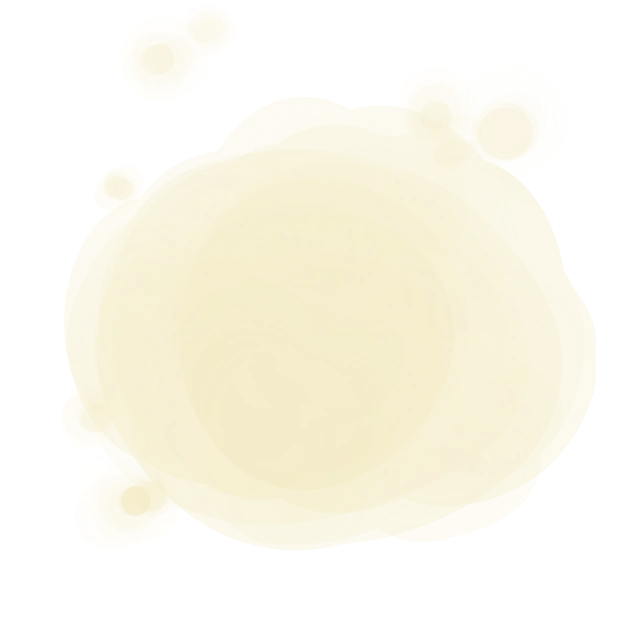
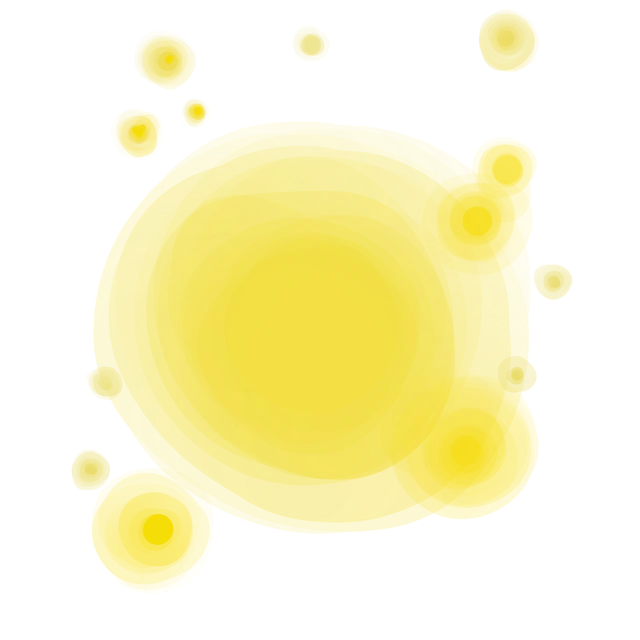
Match companion moods and goal cards to the Figma; drop star eyes and z's
Claude-Session: https://claude.ai/code/session_0163CGCJqiZdqzmXbJkFQdeU

diff --git a/src/components/companion/companion.js b/src/components/companion/companion.js
@@ -9,11 +9,11 @@ const base = import.meta.env.BASE_URL;
  * Each mood = glow (body) + face, and optional left/right arms so they can move on their own.
  */
 const ART = {
-  energized: ['glow', 'armL', 'armR', 'face'],
+  energized: ['glow', 'face'], // the original drawing, arms included
   happy: ['glow', 'armL', 'armR', 'face'],
   calm: ['glow', 'armL', 'armR', 'face'],
   tired: ['glow', 'face'],
-  sad: ['glow', 'armR', 'face'],
+  sad: ['glow', 'face'],
   curious: ['glow', 'face'],
   scholar: ['glow', 'face'],
 };
@@ -21,11 +21,10 @@ const ALIAS = { breathing: 'calm' };
 
 /**
  * createCompanion({ size, mood, label }) → { node, setMood(mood), destroy() }
- * Moods: energized (good day), tired (hard day), happy, calm, sad, curious, scholar.
+ * Moods (matched to the Figma): energized (companion screen, good day), happy (good-day Home, chat),
+ * tired (hard day), calm, sad, curious, scholar.
  */
 export function createCompanion({ size = 120, mood = 'calm', label = 'Clarity, your companion' } = {}) {
-  const zzz = el('span', { class: 'companion__zzz', 'aria-hidden': 'true' },
-    el('span', {}, 'z'), el('span', {}, 'z'), el('span', {}, 'z'));
   const node = el('div', { class: 'companion', role: 'img', 'aria-label': label, style: `--size:${size}px` });
   let mm = null;
 
@@ -34,11 +33,11 @@ export function createCompanion({ size = 120, mood = 'calm', label = 'Clarity, y
     const parts = ART[art] ?? ART.calm;
     const imgs = Object.fromEntries(parts.map((p) => [p,
       el('img', { class: `companion__${p}`, src: `${base}companion/moods/${art}-${p}.webp`, alt: '', decoding: 'async' })]));
-    node.replaceChildren(...Object.values(imgs), zzz);
+    node.replaceChildren(...Object.values(imgs));
     node.dataset.mood = art;
     mm?.revert();
     mm = gsap.matchMedia();
-    mm.add({ motion: '(prefers-reduced-motion: no-preference)' }, () => MOODS[art]?.({ node, zzz, ...imgs }));
+    mm.add({ motion: '(prefers-reduced-motion: no-preference)' }, () => MOODS[art]?.({ node, ...imgs }));
   }
 
   setMood(mood);
@@ -50,22 +49,16 @@ const breathe = (glow, face, scale, y, dur) => gsap.timeline({ repeat: -1, yoyo:
   .to(glow, { scale, duration: dur }, 0).to(face, { y, duration: dur }, 0);
 
 const MOODS = {
-  energized({ node, glow, face, armL, armR }) {
+  energized({ node, glow, face }) {
     const hop = gsap.timeline({ repeat: -1, repeatDelay: 3.5 })
       .to(node, { y: -8, duration: 0.25, ease: 'power2.out' })
       .to(node, { y: 0, duration: 0.5, ease: 'bounce.out' });
-    const wave = gsap.timeline({ repeat: -1, yoyo: true, defaults: { ease: 'sine.inOut', duration: 0.6 } })
-      .to(armL, { rotate: -6, transformOrigin: '40% 60%' }, 0).to(armR, { rotate: 6, transformOrigin: '60% 60%' }, 0);
-    return [breathe(glow, face, 1.06, -3, 1.4), hop, wave];
+    return [breathe(glow, face, 1.06, -3, 1.4), hop];
   },
-  happy: ({ glow, face, armL }) => [breathe(glow, face, 1.04, -2, 2),
-    gsap.to(armL, { rotate: -8, transformOrigin: '40% 60%', duration: 0.5, repeat: -1, yoyo: true, repeatDelay: 1.5, ease: 'sine.inOut' })],
+  happy: ({ glow, face, armL, armR }) => [breathe(glow, face, 1.04, -2, 2),
+    gsap.to([armL, armR], { y: -3, duration: 2, repeat: -1, yoyo: true, ease: 'sine.inOut' })],
   calm: ({ glow, face }) => breathe(glow, face, 1.05, -2, 3),
-  tired({ glow, face, zzz }) {
-    const z = gsap.fromTo(zzz.children, { y: 0, x: 0, opacity: 0 },
-      { y: -28, x: 10, opacity: 1, duration: 1.6, ease: 'sine.out', stagger: { each: 0.6, repeat: -1, yoyo: true } });
-    return [breathe(glow, face, 1.02, 4, 3.6), z];
-  },
+  tired: ({ glow, face }) => breathe(glow, face, 1.02, 3, 3.6),
   sad: ({ glow, face }) => breathe(glow, face, 1.02, 3, 3.6),
   curious: ({ glow, face }) => [breathe(glow, face, 1.04, -2, 2.4),
     gsap.to(face, { x: 4, duration: 1.2, repeat: -1, yoyo: true, ease: 'sine.inOut' })],

diff --git a/src/components/goal-card/goal-card.css b/src/components/goal-card/goal-card.css
@@ -21,35 +21,68 @@
 }
 
 .goal-card__btn {
+  /* Figma 475:1187: 132px dark square, name on top, 83px ring below */
   display: flex;
   flex-direction: column;
   align-items: center;
-  gap: var(--space-2);
+  gap: 6px;
   width: 132px;
   height: 132px;
-  padding: var(--space-3) var(--space-2) 0;
-  border-radius: var(--radius-small);
+  padding: 14px 6px 0;
+  border-radius: 13px;
   background: var(--bg-dark);
   color: var(--text-on-dark);
-  box-shadow: var(--shadow-card);
+  box-shadow: 0 3px 3px rgba(0, 0, 0, 0.25);
+  text-align: center;
 }
 
 .goal-card__name {
-  font-size: var(--fs-sm);
-  font-weight: 600;
-}
-
-.goal-card__target {
-  font-size: 0.6875rem;
+  font-size: 0.8125rem; /* 13 */
   font-weight: 500;
+  line-height: 1.2;
 }
 
 .goal-card__dial {
   position: relative;
   display: grid;
   place-items: center;
-  width: 84px;
-  height: 84px;
+  width: 83px;
+  height: 83px;
+}
+
+.goal-card__inner {
+  position: relative;
+  display: flex;
+  flex-direction: column;
+  align-items: center;
+  line-height: 1.15;
+}
+
+/* Lighter than the Figma's bold, at Shaked's request: semibold value, medium target */
+.goal-card__value {
+  font-size: 1rem; /* 16 */
+  font-weight: 600;
+  color: var(--text-on-dark);
+}
+
+.goal-card__value strong {
+  font-weight: 600;
+  color: var(--light-yellow);
+}
+
+.goal-card__value small {
+  font-size: 0.625rem; /* 10 */
+  font-weight: 500;
+  color: var(--light-yellow);
+}
+
+.goal-card__target {
+  font-size: 0.75rem; /* 12 */
+  font-weight: 500;
+}
+
+.goal-card__target small {
+  font-size: 0.5rem; /* 8 */
 }
 
 .goal-card__ring {
@@ -72,31 +105,6 @@
   stroke-linecap: round;
 }
 
-.goal-card__inner {
-  position: relative;
-  display: flex;
-  flex-direction: column;
-  align-items: center;
-  gap: 2px;
-}
-
-.goal-card__value {
-  display: flex;
-  align-items: baseline;
-  gap: 1px;
-  font-size: 1.25rem;
-  font-weight: 700;
-  line-height: 1;
-}
-
-.goal-card__value strong {
-  color: var(--light-yellow);
-}
-
-.goal-card__value small {
-  font-size: 0.75rem;
-  font-weight: 600;
-}
 
 .goal-card--add .goal-card__btn {
 

diff --git a/src/components/goal-card/goal-card.js b/src/components/goal-card/goal-card.js
@@ -34,8 +34,15 @@ function ring(progress, id) {
   );
 }
 
-function valueLabel({ value, unit }) {
-  return el('p', { class: 'goal-card__value' }, el('strong', {}, value), unit && el('small', {}, unit));
+/** Figma: "2/4" on one line, or "73min" over "100min". */
+function valueLabel({ value, target, unit }) {
+  if (!unit) {
+    return el('span', { class: 'goal-card__inner' },
+      el('span', { class: 'goal-card__value' }, el('strong', {}, value), `/${target}`));
+  }
+  return el('span', { class: 'goal-card__inner' },
+    el('span', { class: 'goal-card__value' }, el('strong', {}, value, el('small', {}, unit))),
+    el('span', { class: 'goal-card__target' }, target, el('small', {}, unit)));
 }
 
 export function createGoalCard(goal) {
@@ -48,9 +55,7 @@ export function createGoalCard(goal) {
       'button',
       { class: 'goal-card__btn', 'aria-label': label },
       el('span', { class: 'goal-card__name' }, name),
-      el('span', { class: 'goal-card__dial' }, ring(value / target, id),
-        el('span', { class: 'goal-card__inner' }, valueLabel(goal),
-          el('span', { class: 'goal-card__target' }, `of ${target}`))),
+      el('span', { class: 'goal-card__dial' }, ring(value / target, id), valueLabel(goal)),
     ),
   );
 }

diff --git a/src/data/days.js b/src/data/days.js
@@ -9,7 +9,7 @@ const shared = {
   goals: [
     { id: 'running', name: 'Running', value: 2, target: 4, unit: '' },
     { id: 'dancing', name: 'Dancing', value: 73, target: 100, unit: 'min' },
-    { id: 'walking', name: 'Walk Rex', value: 23, target: 90, unit: 'km' },
+    { id: 'walking', name: 'Walking Rex', value: 23, target: 90, unit: 'km' },
   ],
   rewards: [
     { id: 'meditate', title: 'Meditate', caption: 'Tap here!', state: 'open' },
@@ -25,7 +25,7 @@ export const DAYS = {
     id: 'good',
     score: 82,
     headline: 'Making progress!',
-    mood: 'energized',
+    mood: 'happy', // Figma good-day Home: content smile
     hrv: [38, 62, 88, 70, 52, 58, 66],
     bpm: [52, 90, 30, 58, 40, 82, 96],
   },

diff --git a/src/components/companion/companion.css b/src/components/companion/companion.css
@@ -22,21 +22,3 @@
 .companion__armR {
   filter: drop-shadow(0 0 1.5px rgba(251, 244, 207, 0.9));
 }
-
-/* Sleepy z's: only on a tired (hard) day. Static when motion is reduced. */
-.companion__zzz {
-  display: none;
-  position: absolute;
-  top: 18%;
-  left: -2%;
-  font-weight: 800;
-  color: var(--text-brown);
-  pointer-events: none;
-}
-.companion__zzz span {
-  display: inline-block;
-  font-size: calc(var(--size) * 0.07);
-}
-.companion__zzz span:nth-child(2) { font-size: calc(var(--size) * 0.09); transform: translateY(-40%); }
-.companion__zzz span:nth-child(3) { font-size: calc(var(--size) * 0.11); transform: translateY(-80%); }
-.companion[data-mood='tired'] .companion__zzz { display: block; }

diff --git a/src/screens/companion/companion-screen.css b/src/screens/companion/companion-screen.css
@@ -9,7 +9,7 @@
 }
 
 .companion-screen[data-day='hard'] {
-  background: linear-gradient(180deg, #f6e3e1 0%, var(--bg-light) 100%);
+  background: var(--bg-hard); /* same pink as hard-day Home, so the pale cloud stays visible */
 }
 
 .companion-screen__insight {

diff --git a/scripts/compose2.py b/scripts/compose2.py
@@ -4,7 +4,13 @@ from collections import deque
 D='/mnt/project-files/clarity-live/companion/layers-v2/'
 cache={}
 def L(n):
-    if n not in cache: cache[n]=Image.open(D+n+'.png').convert('RGBA')
+    """Layer by name. 'name|mirror' flips it left-right (e.g. a right arm used as a left arm)."""
+    if n not in cache:
+        base,_,op=n.partition('|')
+        im=Image.open(D+base+'.png').convert('RGBA')
+        if op=='mirror': im=im.transpose(Image.FLIP_LEFT_RIGHT)
+        if op=='flip': im=im.transpose(Image.FLIP_TOP_BOTTOM)
+        cache[n]=im
     return cache[n]
 def body(n):
     """Bounding box of the main glow blob (largest connected area), ignoring floating bubbles."""
@@ -39,12 +45,17 @@ def layers(spec):
     """Returns separate positioned layers: glow, face, armL, armR (each full canvas)."""
     out={'glow':new(),'face':new(),'armL':new(),'armR':new()}
     out['glow'].alpha_composite(L(spec['glow']))
+    if spec.get('raw'):
+        # drawn together in Procreate: keep exactly as drawn
+        for part,names in spec['raw'].items():
+            for n in names: out[part].alpha_composite(L(n))
+        return out
     b=body(spec['glow']); bw=b[2]-b[0]; bh=b[3]-b[1]; cx=(b[0]+b[2])/2; cy=(b[1]+b[3])/2
     s_=bw/(ORIG[2]-ORIG[0])
     for arm in spec.get('arms') or []:
         ab=bbox_of([arm])
         ox=cx+(ab[0]-(ORIG[0]+ORIG[2])/2)*s_; oy=cy+(ab[1]-(ORIG[1]+ORIG[3])/2)*s_
-        place(out['armL' if 'left' in arm else 'armR'],[arm],ab,(ox,oy,ox+(ab[2]-ab[0])*s_,oy+(ab[3]-ab[1])*s_))
+        place(out['armL' if ('left' in arm) != ('mirror' in arm) else 'armR'],[arm],ab,(ox,oy,ox+(ab[2]-ab[0])*s_,oy+(ab[3]-ab[1])*s_))
     f=spec['face']; fb=bbox_of(f); fw=fb[2]-fb[0]; fh=fb[3]-fb[1]
     tw=bw*spec.get('fw',0.42); sc=tw/fw; th=fh*sc
     fx=cx-tw/2+spec.get('dx',0)*bw; fy=cy-th/2+spec.get('dy',-0.04)*bh
@@ -58,12 +69,17 @@ def compose(spec):
     o=layers(spec); c=new()
     for k in ('glow','armL','armR','face'): c.alpha_composite(o[k])
     return c
+# Matched to the Figma screens (Shaked, 2026-11-04). No star eyes.
 MOODS={
- 'energized':dict(glow='glow-bright',face=['eyes-star','mouth-grin'],arms=['arm-left-up','arm-right-up'],fw=0.46),
- 'happy':dict(glow='glow',face=['face-content'],arms=['arm-left-up','arm-right-down'],fw=0.36),
- 'tired':dict(glow='glow-pale',face=['eyes-sleepy'],mouth='mouth-wavy',mw=0.06,mgap=0.05,fw=0.34,dy=-0.06),
- 'sad':dict(glow='glow-pale',face=['eyes-sad','mouth-sad'],arms=['arm-right-down'],fw=0.42),
- 'calm':dict(glow='glow-cream',face=['face-calm'],arms=['arm-left-zen','arm-right-zen'],fw=0.34,dy=0.02),
+ # Figma "companion" screen: the original drawing, untouched
+ 'energized':dict(glow='glow',raw={'face':['face-arms-happy']}),
+ # Figma good-day Home + chat: bright glow, content smile, arms hanging
+ 'happy':dict(glow='glow-bright',face=['face-content'],arms=['arm-right-down|mirror','arm-right-down'],fw=0.40,dy=-0.08),
+ # Figma hard-day Home: cream cloud, worried brows, small frown, face high on the body
+ 'tired':dict(glow='glow-cream',face=['eyes-sad'],mouth='mouth-sad',mw=0.07,mgap=0.06,fw=0.46,dy=-0.16),
+ 'sad':dict(glow='glow-pale',face=['eyes-sad'],mouth='mouth-sad',mw=0.07,mgap=0.06,fw=0.46,dy=-0.12),
+ # Figma "meditate" reward: yellow glow, closed eyes, zen arms
+ 'calm':dict(glow='glow-bright',face=['face-calm'],arms=['arm-left-zen','arm-right-zen'],fw=0.34,dy=0.0),
  'scholar':dict(glow='glow-cream',face=['face-scholar'],fw=0.5,dy=-0.12),
  'curious':dict(glow='glow',face=['face-detective'],fw=0.45),
 }
